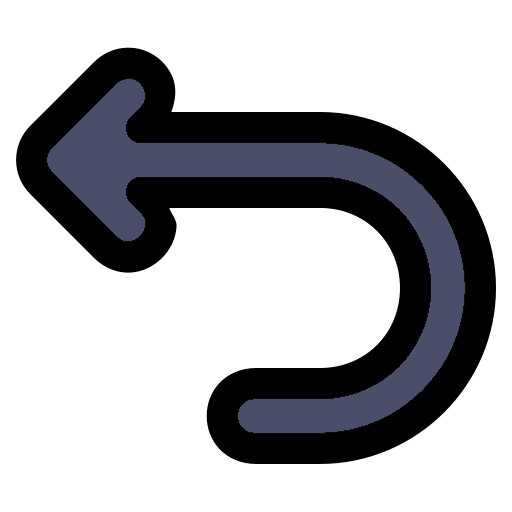
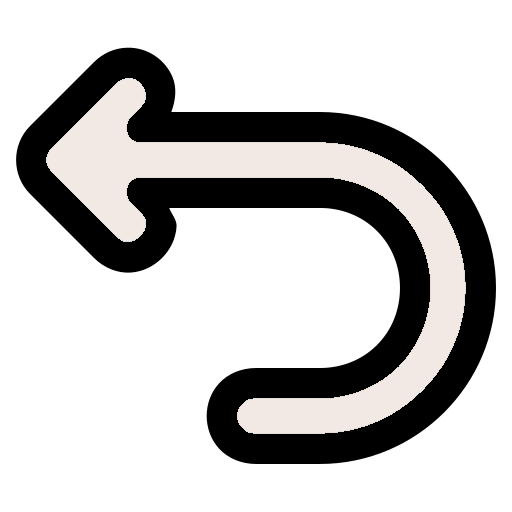
commited

Changed region(s): [[0.0938, 0.1562, 0.9062, 0.875]]

diff --git a/style.css b/style.css
@@ -293,18 +293,35 @@ canvas {
   width: 100vw;
   margin: 0;
   display: flex;
-  justify-content: flex-end; /* Align to the right */
-  align-items: center; /* Center vertically */
+  justify-content: center;
+  align-items: center; 
+  position: relative;
+  background-color: rgb(74, 78, 105);
+}
+
+#homeHeading {
+  margin: 0;
+  position: absolute;
+  left: 50%;
+  transform: translateX(-50%);
+  color: white;
+  font-size: 70px;
+  white-space: nowrap; /* Prevents text from breaking */
+}
+
+#homeHeaderRight {
+  margin-left: auto; 
 }
 
 /* profile stypes */
 
-#profileHeader {
+#loginHeader {
   display: flex;
   justify-content: flex-end;
+  background-color: rgb(74, 78, 105);
 }
 
-#profileContainer {
+#loginContainer {
   background-color: rgb(242, 233, 228);
   height: 100vh;
 }
@@ -335,6 +352,7 @@ canvas {
 #registerHeader {
   display: flex;
   justify-content: space-between;
+  background-color: rgb(74, 78, 105);
 }
 
 #registerContainer {

diff --git a/login.html b/login.html
@@ -7,9 +7,9 @@
     <link rel="stylesheet" type="text/css" href="style.css">
 </head>
 <body>
-    <div id="profileContainer">
-        <div id="profileHeader">
-            <input type="image" src="images/homeColouredBlue.png" id="homeButton" class="tool toolImgButton">
+    <div id="loginContainer">
+        <div id="loginHeader">
+            <input type="image" src="images/homeColoured.png" id="homeButton" class="tool toolImgButton">
         </div>
         <div id="loginContainer">
             <div id="loginContent">
@@ -24,6 +24,6 @@
         </div>
         
     </div>
-    <script src="profile.js"></script>
+    <script src="login.js"></script>
 </body>
 </html>

diff --git a/register.html b/register.html
@@ -9,8 +9,8 @@
 <body>
     <div id="registerContainer">
         <div id="registerHeader">
-            <input type="image" src="images/turn-back.png" id="homeButton" class="tool toolImgButton">
-            <input type="image" src="images/homeColouredBlue.png" id="backButton" class="tool toolImgButton">
+            <input type="image" src="images/turn-back.png" id="backButton" class="tool toolImgButton">
+            <input type="image" src="images/homeColoured.png" id="homeButton" class="tool toolImgButton">
         </div>
         <div id="registerContainer">
             <div id="registerContent">

diff --git a/home.html b/home.html
@@ -9,7 +9,10 @@
 <body>
     <div id="homeContainer">
         <div id="homeHeader">
-            <input type="image" src="images/profileColoured.png" id="profileButton" class="tool toolImgButton">
+            <div id="homeHeading">Navaneeth's Beautiful NEA</div>
+            <div id="homeHeaderRight">
+                <input type="image" src="images/profileColoured.png" id="profileButton" class="tool toolImgButton">
+            </div>   
         </div>
         <div id="systemsContainer"></div>
         <img src="images/addSystem.png" id="systemCreateButton">

diff --git a/register.js b/register.js
@@ -1,9 +1,9 @@
 let homeButton = document.getElementById("homeButton");
 let backButton = document.getElementById("backButton");
 
-// backButton.onclick = function () { //doesnt work for some reason
-//   window.location.href = "profile.html";
-// };
+backButton.onclick = function () { 
+  window.location.href = "profile.html";
+};
 
 homeButton.onclick = function () {
   window.location.href = "home.html";

diff --git a/index.html b/index.html
@@ -56,7 +56,7 @@
           <input type="image" src="images/playButtonColoured.png" id="playButton" class="timelineButton">
         </div>
       </div>
-      <div id="canvas"><!--<div id="objects" class="tool"><p>objects</p></div>--></div>
+      <div id="canvas"></div>
     </div>
     <script src="sketch.js"></script>
   </body>

diff --git a/home.js b/home.js
@@ -158,5 +158,5 @@ profileButton.onmouseleave = function () {
 };
 
 profileButton.onclick = function () {
-  window.location.href = "profile.html";
+  window.location.href = "login.html";
 };
